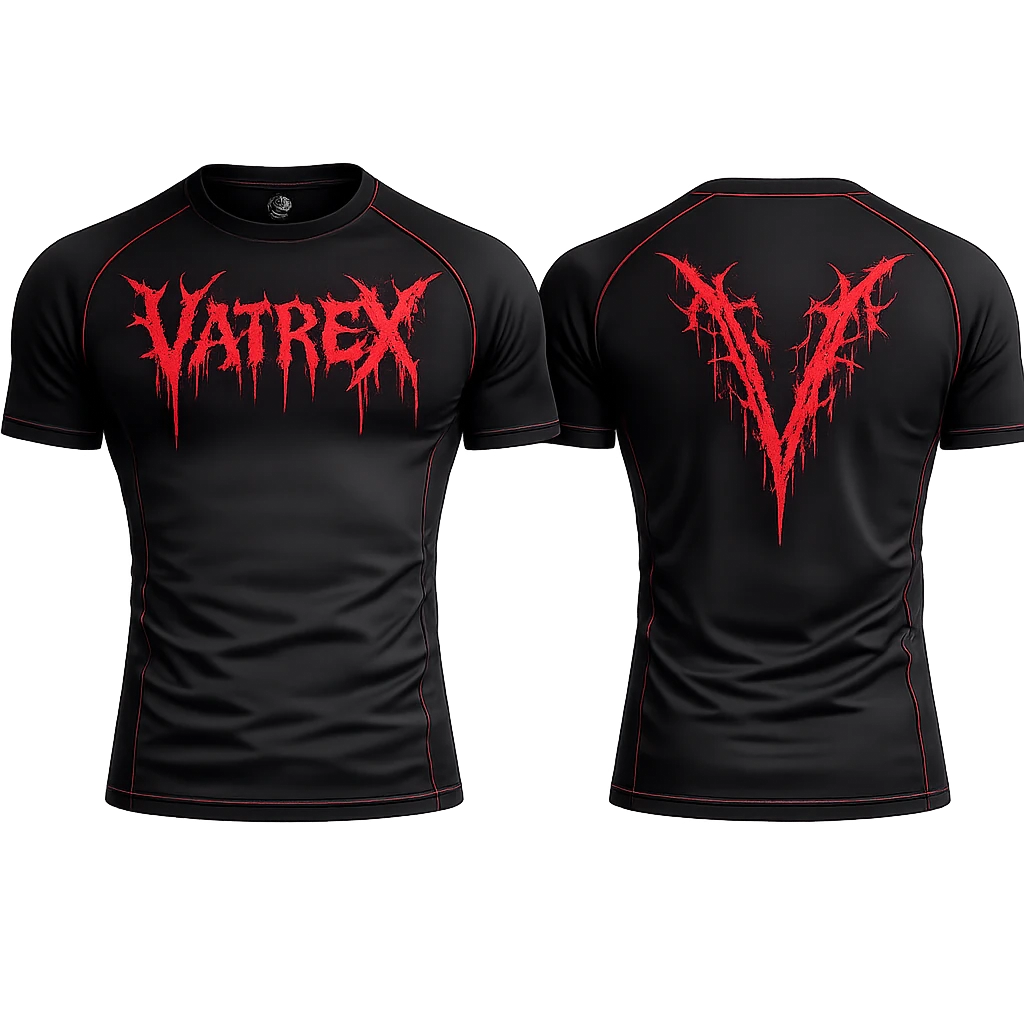
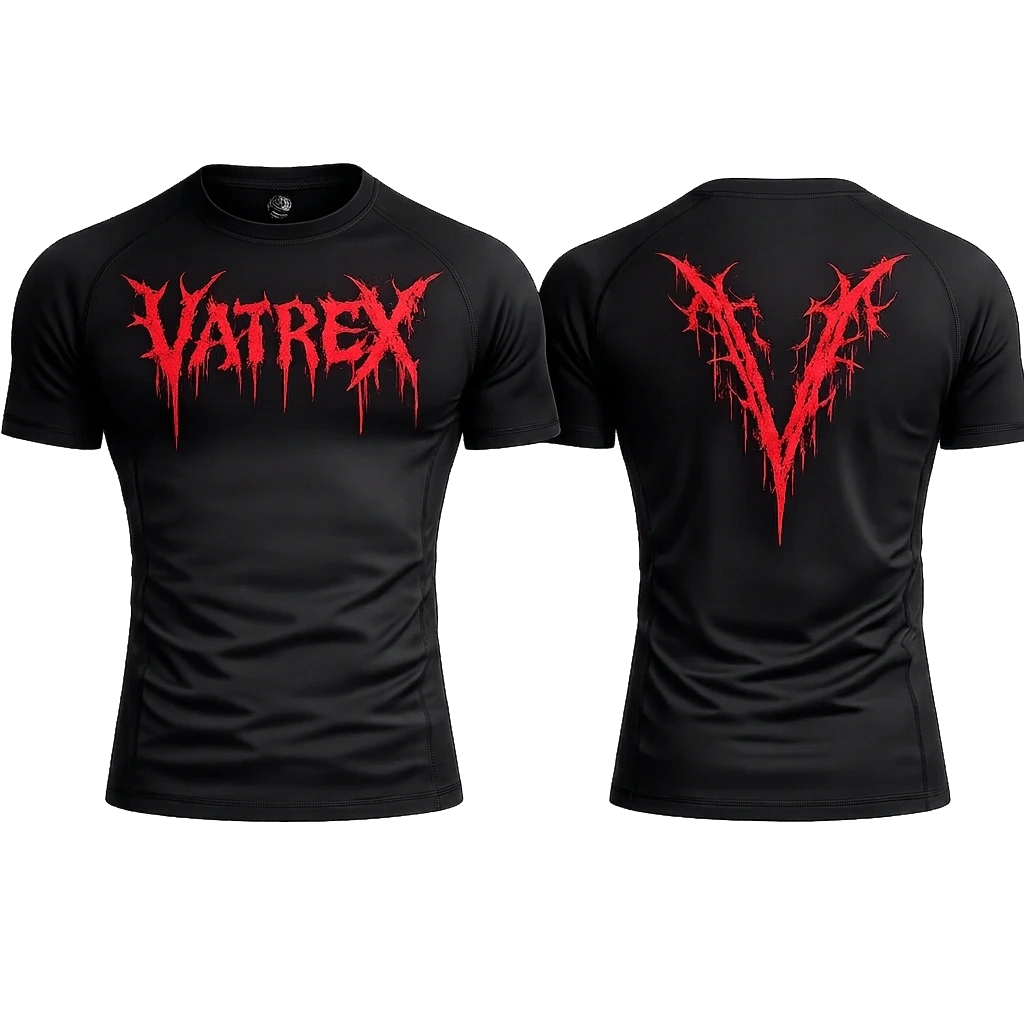
removed red line

diff --git a/css/products.css b/css/products.css
@@ -213,7 +213,7 @@ html {
     font-size: 4vw;
     color: #000000;
     font-family: "Metal Mania", serif;
-    margin-top: 33vw;
+    margin-top: -9vw;
 }
 
 .relatedproducts {
@@ -225,7 +225,6 @@ html {
     transform: translateY(-5vw);   
     overflow-x: auto;
     gap: 20px;
-    margin-top: 1vw;
     justify-content:center;
 align-items:center;
 box-sizing:border-box;
@@ -239,6 +238,7 @@ border-radius:30px;
 justify-content:center;
 align-items:center;
 box-sizing:border-box;
+z-index:100;
 
 }
 .relatedt {
@@ -249,6 +249,7 @@ box-sizing:border-box;
     -webkit-tap-highlight-color: transparent;
     outline: none;
     user-select: none;
+    z-index:100;
 }
 .relatedts {
     width: 26vw;
@@ -258,6 +259,7 @@ box-sizing:border-box;
     -webkit-tap-highlight-color: transparent;
     outline: none;
     user-select: none;
+    z-index:100;
 }
 .relatedp{
     width: 23vw;
@@ -267,6 +269,7 @@ box-sizing:border-box;
     -webkit-tap-highlight-color: transparent;
     outline: none;
     user-select: none;
+    z-index:100;
 }
 .description {
     color: rgb(0 0 0);
@@ -313,9 +316,9 @@ html {
     border-radius: 30px;
     right: 11px;
     transform: translateY(-45%);
-    width:25vw; 
-    height:40vw;
-    background: rgb(218 218 218);
+    width:27vw; 
+    height:100%;
+    background: rgb(40 40 40);
     border:2px solid rgb(0 0 0);
     border-radius: 50px;
     display: flex;
@@ -323,24 +326,23 @@ html {
     gap: 100px;
     justify-content: center;
     justify-content:center;
+    z-index:100;
 }
 
 .buy, .back {
-    width: 20vw;
-    height: 70px;
+    width:100%;
+    height:80px;
     font-weight: 900;
     font-size: 30px;
-    border-radius: 30px;
     cursor: pointer;
-    background: rgb(219, 219, 219);
-    border: 2px solid rgb(0, 0, 0);
+    background: rgb(255 255 255);
+    border: none;
     -webkit-tap-highlight-color: transparent;
     outline: none;
     user-select: none;
-    margin-left: 2.5vw;
     
     /* Fixed transition property */
-    transition: background-color 1s ease, color 1s ease;
+    transition: background-color .3s ease, color .3s ease;
     
 }
 

diff --git a/css/style.css b/css/style.css
@@ -74,17 +74,17 @@ a {
 }
 .order-strip {
     width: 100%;
-    height: 3vw;
-    background: #580000;
+    height:1.9vw;
+    background: #000000;
     overflow: hidden;
     display: flex;
     align-items: center;
     position: relative;
     z-index:100;
-    margin-top:0.1vw;
+    margin-top:0.vw;
 }
 .order-textpc {
-    color: #fff;
+    color: #e1e1e1;
     font-family: 'Montserrat', sans-serif;
     font-weight: 700;
     font-size: 2.5vw;

diff --git a/index.html b/index.html
@@ -56,6 +56,8 @@ href="https://cdnjs.cloudflare.com/ajax/libs/font-awesome/6.6.0/css/all.min.css"
   </div>
 <div id="overlay" class="overlay" onclick="closeMenu()"></div>
   <div class="nav-center">
+    <div class="sword-wrapper">
+    </div>
       <img src="images/VATREXX.webp" alt="VATREX Logo">
   </div>
   <div class="nav-right">
